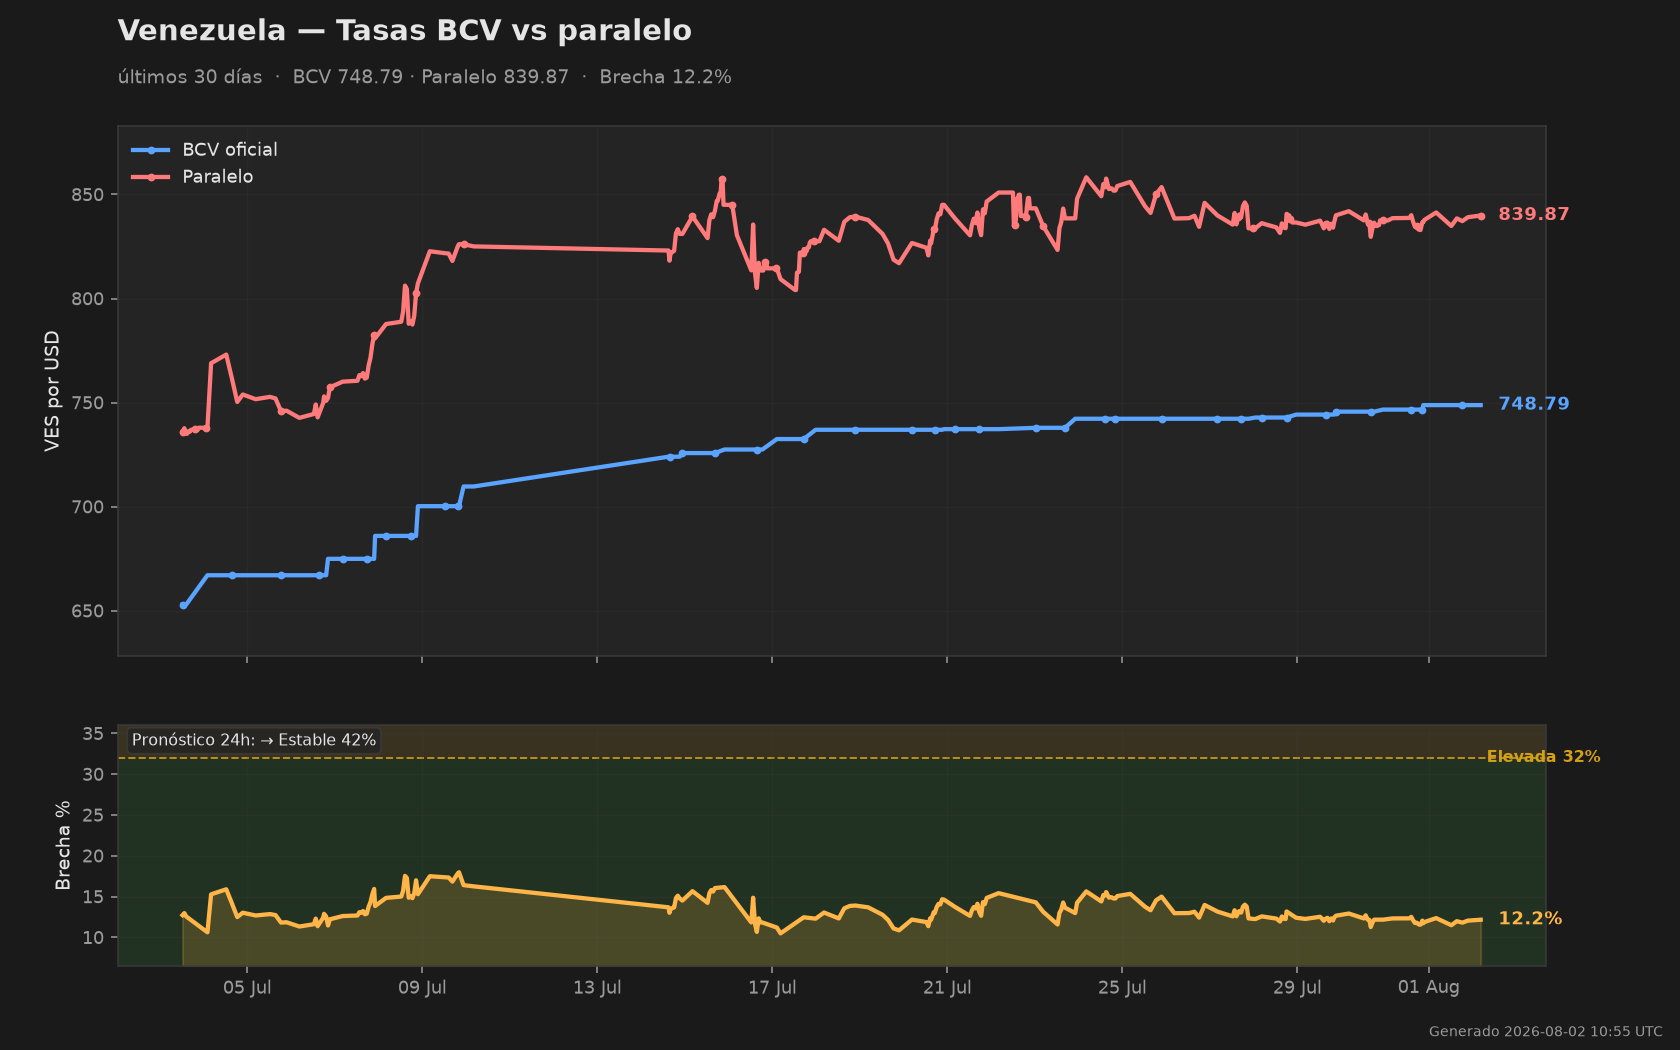
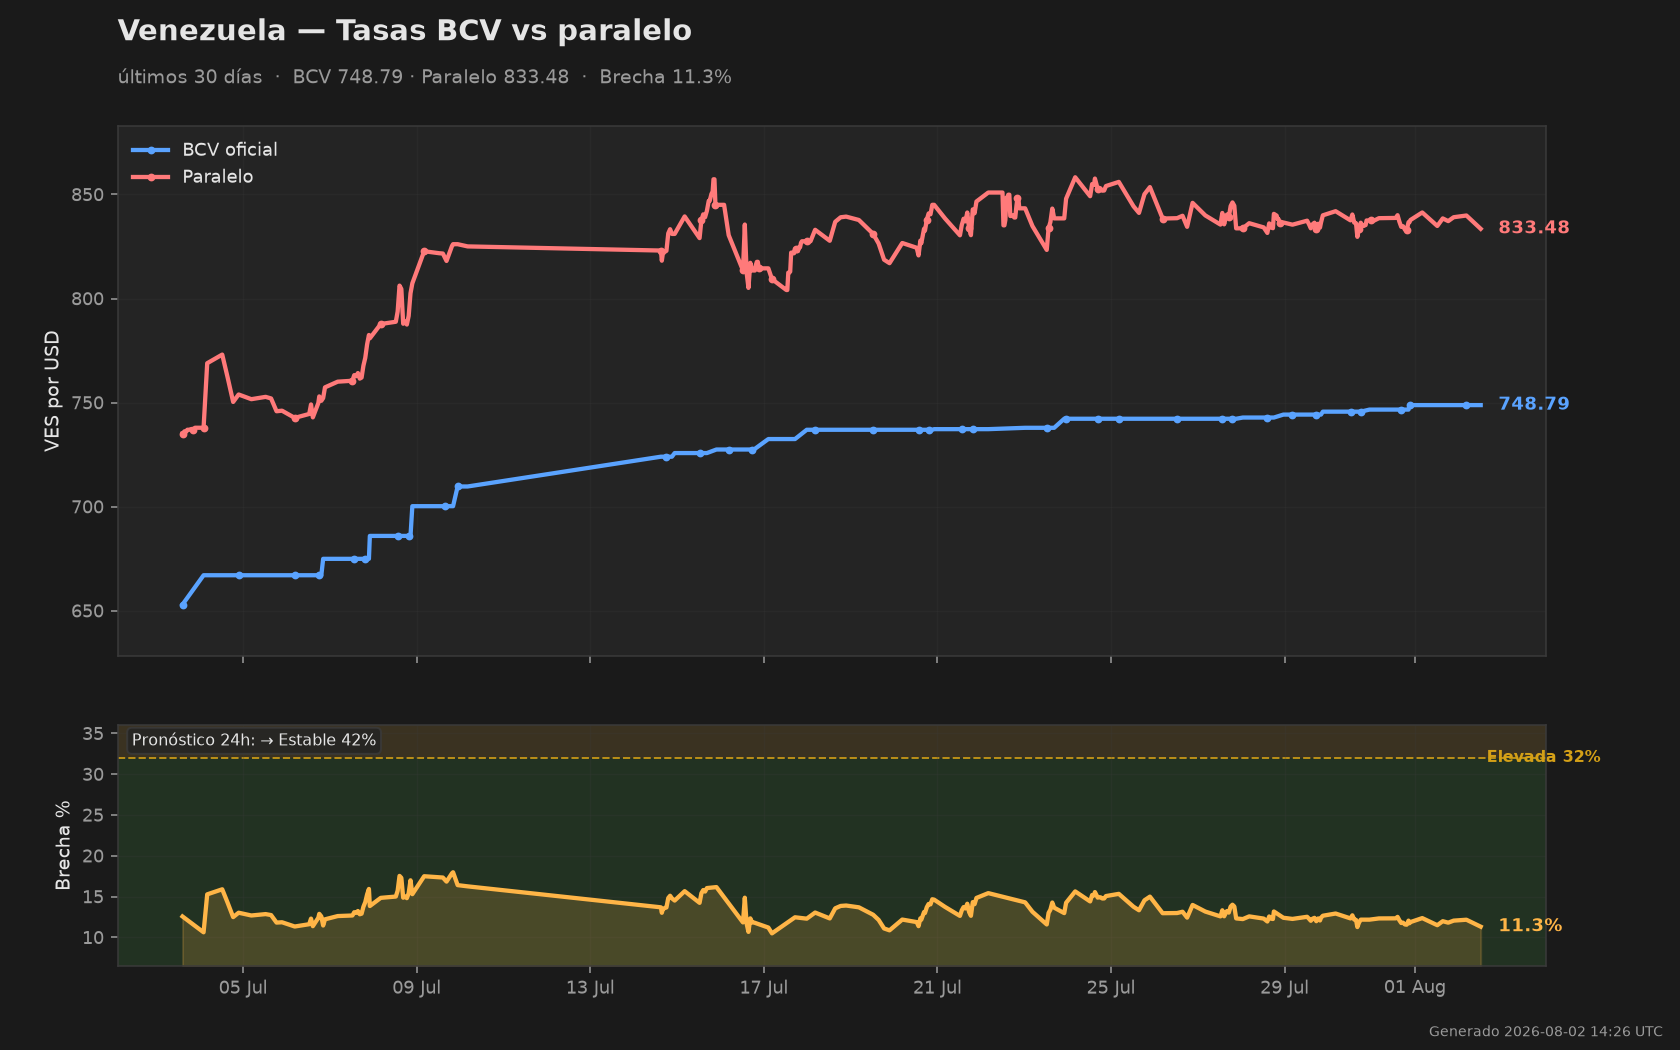
Dashboard update 2026-08-02 14:26 UTC

diff --git a/README.md b/README.md
@@ -11,11 +11,11 @@
 | Metric · Métrica | Value · Valor |
 |---|---|
 | BCV Oficial | **748.79** VES/USD |
-| Paralelo | **839.87** VES/USD |
-| Brecha · Spread | **12.2%** |
-| Binance P2P USDT/VES | **846.42** VES/USDT (+0.8% vs paralelo) |
+| Paralelo | **833.48** VES/USD |
+| Brecha · Spread | **11.3%** |
+| Binance P2P USDT/VES | **846.54** VES/USDT (+1.6% vs paralelo) |
 | **Pronóstico 24h · 24h Forecast** | **→ Estable · Stable (63%)** |
-| Actualizado · Updated | 2026-08-02 04:31 UTC |
+| Actualizado · Updated | 2026-08-02 12:25 UTC |
 
 ![Venezuela BCV vs parallel rate — last 30 days](data/chart.png)
 
@@ -29,8 +29,8 @@ Cada día compiten dos modelos sobre el mismo pronóstico: una **línea base** (
 
 | Model · Modelo | Brier ↓ | vs Baseline | Forecasts Scored · Evaluados |
 |---|---|---|---|
-| naive (baseline) | 0.705 ± 0.055 | — | 74 |
-| stat | 0.680 ± 0.047 | −0.024 ≈ | 74 |
+| naive (baseline) | 0.703 ± 0.054 | — | 75 |
+| stat | 0.675 ± 0.048 | −0.027 ≈ | 75 |
 
 *Accumulating live data since May 2026 · Acumulando datos en vivo desde mayo 2026*
 
